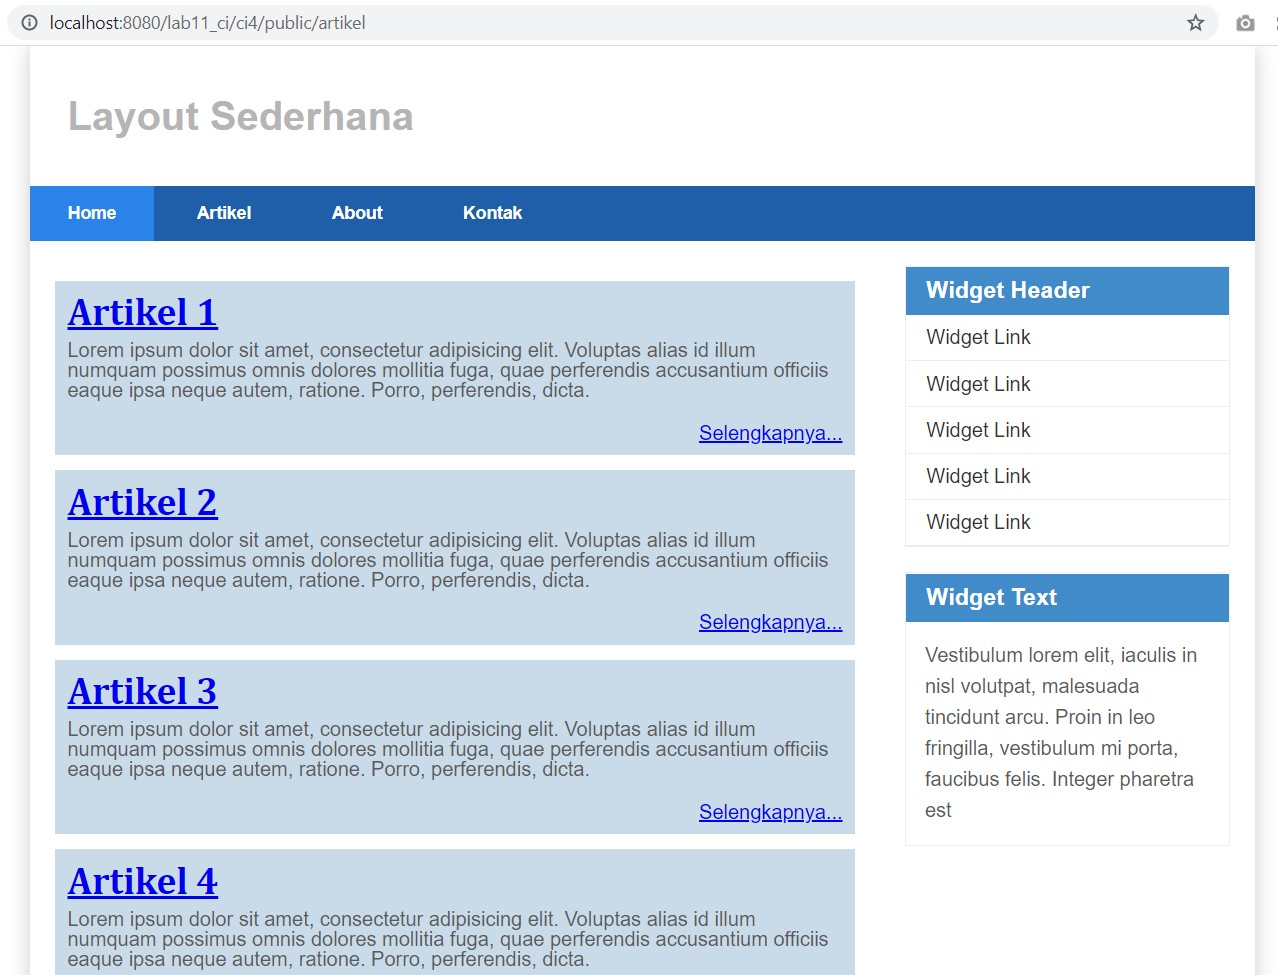
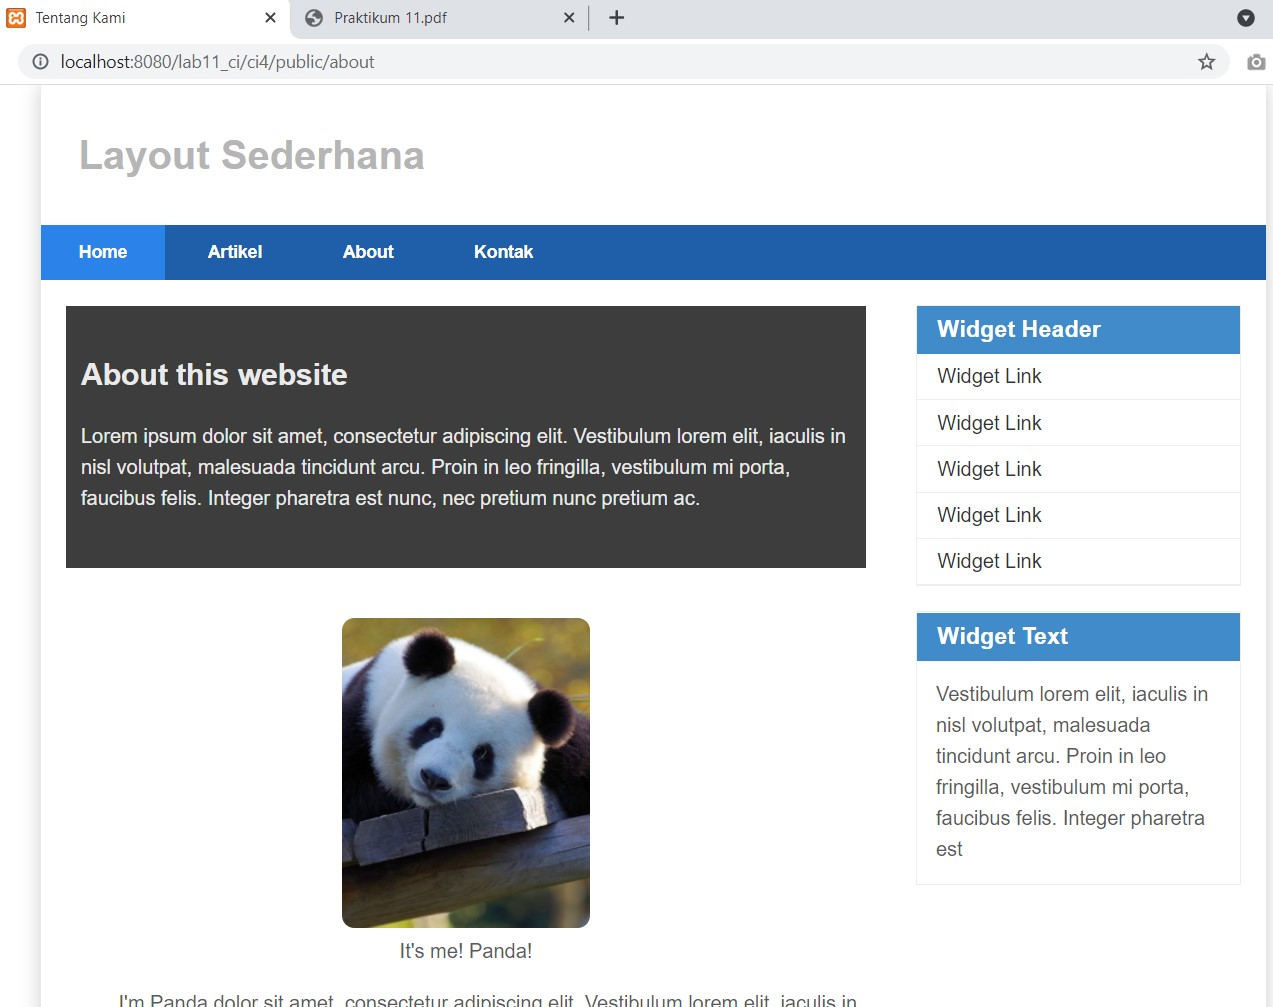
Updated

diff --git a/README.md b/README.md
@@ -1,1 +1,163 @@
-# Lab11Web
+# PRAKTIKUM PEMROGRAMAN WEB
+
+## Praktikum Pertemuan 12
+
+Praktikum dilakukan dengan modul praktikum yang sudah disediakan.
+
+- File praktikum terdapat pada folder **lab11_ci**.
+
+## 1. INSTALASI
+
+**Software yang digunakan :**
+
+- XAMPP 3.2.4
+- Codeigniter 4
+- Visual Studio Code (text editor)
+
+### Pengaturan XAMPP
+
+Pertama masuk ke pengaturan file config apache pada xampp yang terletak pada control panel xampp.
+
+![enter image description here](https://github.com/antonmartinus72/Lab11Web/raw/main/Screenshoot/1.jpg)
+
+Kemudian hilangkan titik koma "`;`" pada baris yang di blok seperti di atas. Lalu simpan file dan aktifkan module apache pada control panel dengan menekan tombol "start".
+
+### Instalasi Codeigniter 4
+
+Kunjungi halaman [codeigniter.com](codeigniter.com) lalu unduh codeigniter 4.
+
+![enter image description here](https://github.com/antonmartinus72/Lab11Web/raw/main/Screenshoot/2.jpg)
+
+Setelah selesai di unduh, ekstrak semua file di dalam file codeigniter ke dalam folder root (htdocs) xampp.
+
+![enter image description here](https://github.com/antonmartinus72/Lab11Web/raw/main/Screenshoot/3.jpg)
+
+Masuk ke alamat localhost pada browser lalu arahkan ke direktori public yang terdapat pada direktori codeigniter yang tadi sudah di ekstrak. Anda akan melihat tampilan seperti ini :
+
+![enter image description here](https://github.com/antonmartinus72/Lab11Web/raw/main/Screenshoot/4.jpg)
+
+Selanjutnya silahkan ubah nama file "**env**" menjadi "**.env**" pada direktori codeigniter. Anda bisa backup file "env" terlebih dahulu sebelum di ubah nama.
+Setelah itu masuk ubah file env dengan text editor lalu ubah baris `# CI_ENVIRONMENT = production` menjadi `CI_ENVIRONMENT = development` (Harap diperhatikan tanda "#").
+
+![enter image description here](https://github.com/antonmartinus72/Lab11Web/raw/main/Screenshoot/5.jpg)
+
+## 2. PRAKTIKUM
+
+### Menambah Route Baru
+
+Ubah file "Routes.php" pada direktori "app/Config" dan tambahkan baris baru seperti di bawah ini :
+
+![enter image description here](https://github.com/antonmartinus72/Lab11Web/raw/main/Screenshoot/6.jpg)
+
+Untuk mengetahui route yang di tambahkan apakah sudah benar, silahkan buka command prompt atau terminal dan arahkan ke direktori codeigniter dan masukan perintah `php spark routes`.
+
+![enter image description here](https://github.com/antonmartinus72/Lab11Web/raw/main/Screenshoot/7.jpg)
+
+### Menambahkan Controller Baru
+
+Pertama buat file dengan nama "**page.php**" pada direktori "**app/Controllers**". Setelah itu buka file tadi ("**page.php**") dan isi seperti di bawah ini :
+
+![enter image description here](https://github.com/antonmartinus72/Lab11Web/raw/main/Screenshoot/8.jpg)
+
+Coba akses "localhost:8080/**DirektoriCodeIgniterAnda**/public/about" dan akan tampil seperti dibawah ini :
+
+![enter image description here](https://github.com/antonmartinus72/Lab11Web/raw/main/Screenshoot/9.jpg)
+
+\*Alamat harus di sesuaikan dengan tempat anda menyimpan folder codeigniter.
+
+### Auto Routing
+
+Ubah baris `$routes->setAutoRoute(false);` menjadi `$routes->setAutoRoute(true);` pada file Routes.php dan tambahkan method berikut pada "controller/page" :
+
+    public function tos() {
+        echo "ini halaman Term of Services";
+    }
+
+Lalu akses "localhost:8080/**DirektoriCodeIgniterAnda**/public/page/tos"
+
+![enter image description here](https://github.com/antonmartinus72/Lab11Web/raw/main/Screenshoot/10.jpg)
+
+### Membuat View
+
+Buat file baru dengan nama about.php pada direktori "**app/View**". Kemudian isi seperti berikut :
+
+![enter image description here](https://github.com/antonmartinus72/Lab11Web/raw/main/Screenshoot/11_view.jpg)
+
+Selanjutnya mengubah method `about` pada "**controller/page.php**" seperti berikut :
+
+![enter image description here](https://github.com/antonmartinus72/Lab11Web/raw/main/Screenshoot/11_controller.jpg)
+
+Masuk ke halaman "localhost:8080/**DirektoriCodeIgniterAnda**/public/about" lalu hasilnya akan seperti ini :
+
+![enter image description here](https://github.com/antonmartinus72/Lab11Web/raw/main/Screenshoot/11_output.jpg)
+
+## 3. MEMBUAT LAYOUT WEB DENGAN CSS
+
+Membuat layout halaman blog dengan menggunakan css pada codeigniter 4. File css akan di simpan pada folder publik di direktori code igniter dengan nama **style.css**.
+
+** \*File css yang digunakan diambil dari praktikum 4.**
+
+Baut folder baru dengan nama "**template**" pada direktori **view**.
+Lalu buat file "**header.php**" dan "**footer.php**".
+
+Isi file **header.php** seperti berikut :
+
+![enter image description here](https://github.com/antonmartinus72/Lab11Web/raw/main/Screenshoot/12_vHeader.jpg)
+
+Isi file **footer.php** seperti berikut :
+
+![enter image description here](https://github.com/antonmartinus72/Lab11Web/raw/main/Screenshoot/12_vFooter.jpg)
+
+Ubah file view **about.php** menjadi seperti ini :
+
+![enter image description here](https://github.com/antonmartinus72/Lab11Web/raw/main/Screenshoot/12_about.jpg)
+
+Hasilnya akan terlihat seprti ini :
+
+![enter image description here](https://github.com/antonmartinus72/Lab11Web/raw/main/Screenshoot/13_Output.jpg)
+
+# 4. TUGAS
+
+**_"Lengkapi kode program untuk menu lainnya yang ada pada Controller Page, sehingga semua link pada navigasi header dapat menampilkan tampilan dengan layout yang sama"_**
+
+\*File view diambil dari repositori tugas praktikum 4 pada [halaman ini](https://github.com/antonmartinus72/Lab4Web).
+
+### Menambahkan Route Baru
+
+![enter image description here](https://github.com/antonmartinus72/Lab11Web/raw/main/Screenshoot/15.jpg)
+
+### Menambahkan Controller Baru
+
+Mengubah method `Home` pada controller **home.php** untuk membuat halaman indeks mengarah pada view **home.php**.
+
+![enter image description here](https://github.com/antonmartinus72/Lab11Web/raw/main/Screenshoot/16_a.jpg)
+
+Menambahkan 2 method baru pada controller **page.php**.
+
+![enter image description here](https://github.com/antonmartinus72/Lab11Web/raw/main/Screenshoot/16_b.jpg)
+
+### Struktut View
+
+Struktur View.
+
+![enter image description here](https://github.com/antonmartinus72/Lab11Web/raw/main/Screenshoot/17.jpg)
+
+### Output
+
+Halaman **Home** (Indeks).
+
+![enter image description here](https://github.com/antonmartinus72/Lab11Web/raw/main/Screenshoot/14_a.jpg)
+
+Halaman **Artikel**.
+
+![enter image description here](https://github.com/antonmartinus72/Lab11Web/raw/main/Screenshoot/14_b.jpg)
+
+Halaman **About**.
+
+![enter image description here](https://github.com/antonmartinus72/Lab11Web/raw/main/Screenshoot/14_c.jpg)
+
+Halaman **Kontak**.
+
+![enter image description here](https://github.com/antonmartinus72/Lab11Web/raw/main/Screenshoot/14_d.jpg)
+
+## Sekian & Terimakasih
